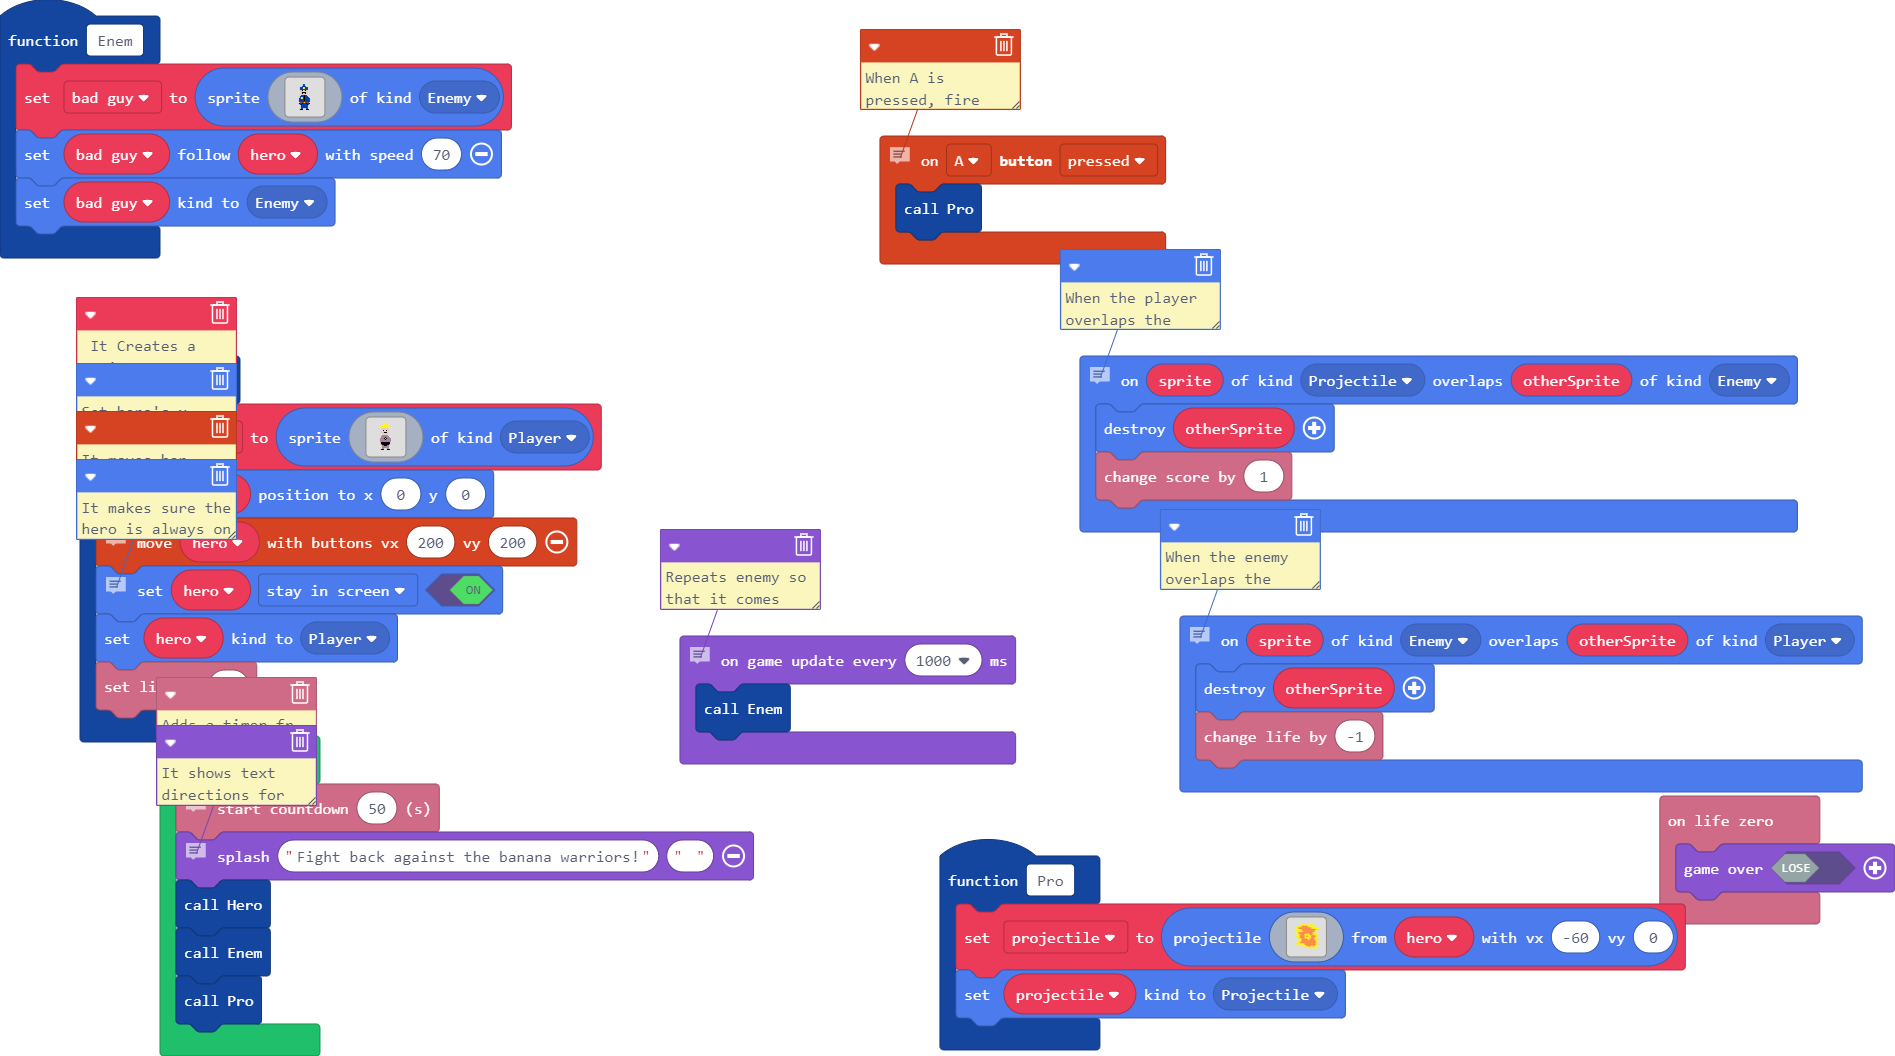
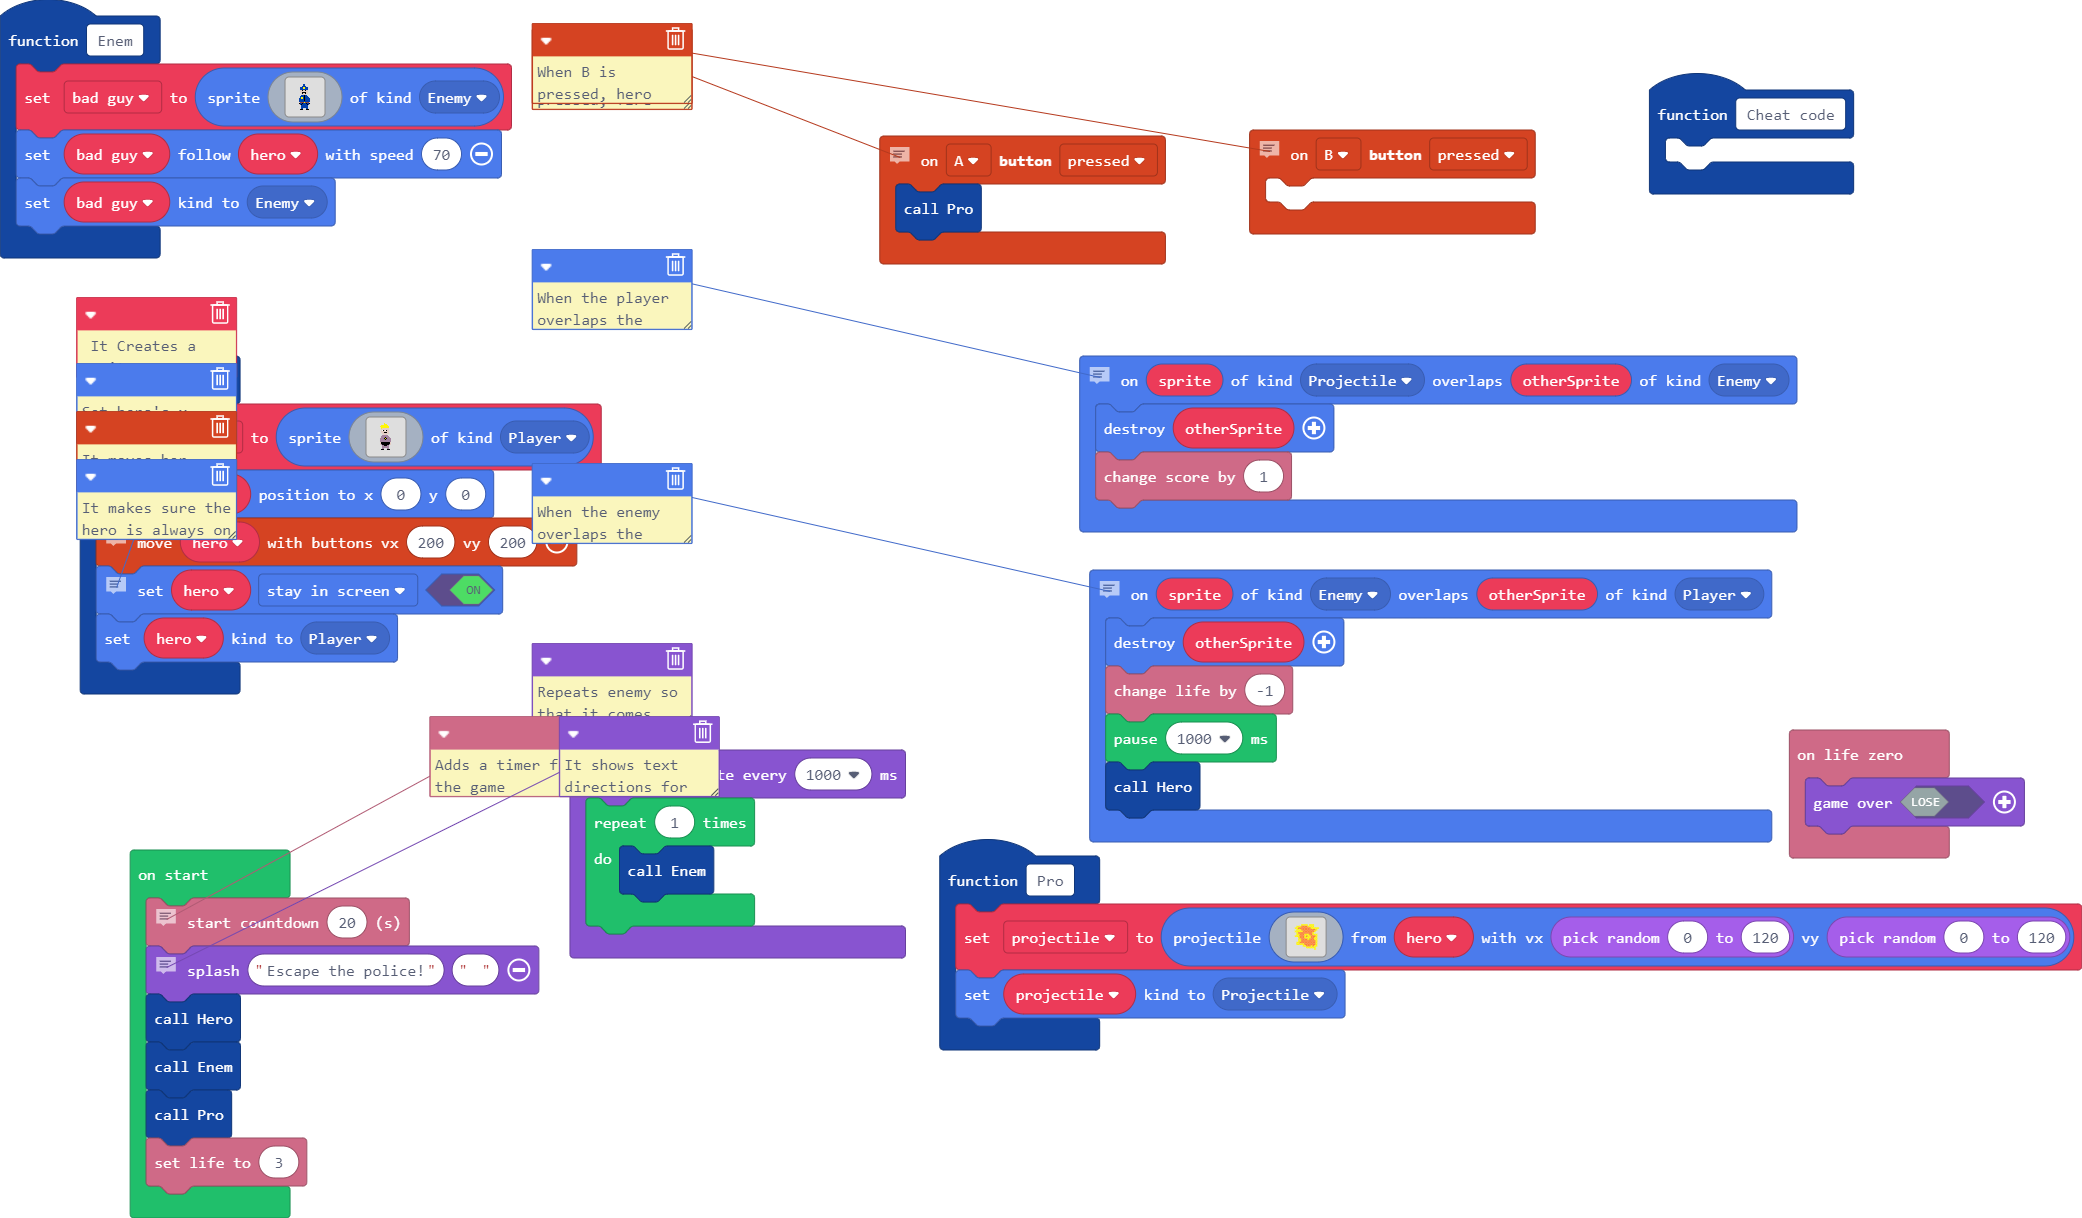
Added lifes and fixed it

diff --git a/main.ts b/main.ts
@@ -1,7 +1,13 @@
+// When B is pressed, hero activates cheat code.
+controller.B.onEvent(ControllerButtonEvent.Pressed, function () {
+	
+})
 // When the enemy overlaps the player,
 sprites.onOverlap(SpriteKind.Enemy, SpriteKind.Player, function (sprite, otherSprite) {
     otherSprite.destroy()
     info.changeLifeBy(-1)
+    pause(1000)
+    Hero()
 })
 function Enem () {
     bad_guy = sprites.create(img`
@@ -73,7 +79,7 @@ function Pro () {
 . . . . . . . . . . . . . . . 5 . . . . 
 . . . . . . . . . . . . . . . . . . . . 
 . . . . . . . . . . . . . . . . . . . . 
-`, hero, -60, 0)
+`, hero, Math.randomRange(0, 120), Math.randomRange(0, 120))
     projectile.setKind(SpriteKind.Projectile)
 }
 function Hero () {
@@ -121,7 +127,9 @@ function Hero () {
     // It makes sure the hero is always on the screen.
     hero.setFlag(SpriteFlag.StayInScreen, true)
     hero.setKind(SpriteKind.Player)
-    info.setLife(3)
+}
+function Cheat_code () {
+	
 }
 info.onLifeZero(function () {
     game.over(false)
@@ -130,13 +138,16 @@ let projectile: Sprite = null
 let hero: Sprite = null
 let bad_guy: Sprite = null
 // Adds a timer fr the game
-info.startCountdown(50)
+info.startCountdown(20)
 // It shows text directions for the game
-game.splash("Fight back against the banana warriors!", "")
+game.splash("Escape the police!", "")
 Hero()
 Enem()
 Pro()
+info.setLife(3)
 // Repeats enemy so that it comes back every second
 game.onUpdateInterval(1000, function () {
-    Enem()
+    for (let index = 0; index < 1; index++) {
+        Enem()
+    }
 })
